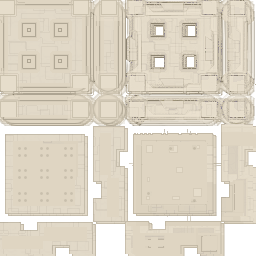
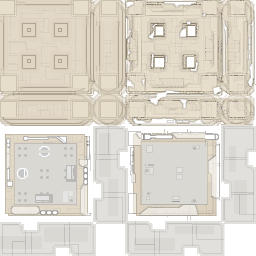
Updated some art and behaviours associated with roads and service hatches, plus minor tweaks to flora and fog of war.

diff --git a/src/stratos/game/civic/ServiceHatch.java b/src/stratos/game/civic/ServiceHatch.java
@@ -34,15 +34,6 @@ public class ServiceHatch extends Venue {
       IMG_DIR+"all_big_roads.png", 2, 2,
       2, 0, true
     ),
-    /*
-    ALL_MODELS[] = CutoutModel.fromImages(
-      ServiceHatch.class, IMG_DIR, 2, 0, true,
-      "access_hatch_2.png",
-      "causeway_x_axis.png",
-      "causeway_y_axis.png"
-    ),
-    //*/
-    //NM[] = ALL_MODELS[0][0],
     NM[][] = ALL_MODELS, HUB_MODEL = NM[0][0],
     MODELS_X_AXIS[] = { HUB_MODEL, NM[0][1], HUB_MODEL },
     MODELS_Y_AXIS[] = { HUB_MODEL, NM[1][1], HUB_MODEL };
@@ -55,12 +46,14 @@ public class ServiceHatch extends Venue {
       ServiceHatch.class, "media/GUI/Buttons/access_hatch_button.gif"
     );
   
+  
   final public static Blueprint BLUEPRINT = new Blueprint(
     ServiceHatch.class, "service_hatch",
     "Service Hatch", UIConstants.TYPE_ENGINEER,
     2, 0, IS_FIXTURE | IS_LINEAR,
-    Bastion.BLUEPRINT, Owner.TIER_FACILITY
+    Bastion.BLUEPRINT, Owner.TIER_PRIVATE
   );
+  
   
   
   public ServiceHatch(Base base) {
@@ -82,6 +75,43 @@ public class ServiceHatch extends Venue {
   
   public void saveState(Session s) throws Exception {
     super.saveState(s);
+  }
+  
+  
+  
+  /**  Situation and auto-placement:
+    */
+  final static int
+    EXCLUDE_RADIUS = Stage.ZONE_SIZE / 2,
+    MIN_ADJACENCY  = 2,
+    BASE_ADJACENCY = 4;
+  
+  public float ratePlacing(Target point, boolean exact) {
+    final Stage world = point.world();
+    
+    //  TODO:  Base this off demand for power & atmo distribution!
+    //  e.g, base.demands.demandAround(point, Economy.POWER), etc...
+    float need = 2;
+    //
+    //  We don't want hatches too close to other hatches, and they should be
+    //  'hugging' some nearby walls...
+    //  TODO:  Build that into the non-exact estimates too.
+    if (exact) {
+      final Object nearHatch = world.presences.nearestMatch(
+        ServiceHatch.class, point, EXCLUDE_RADIUS
+      );
+      if (nearHatch != null) return -1;
+      
+      int tilesAdj = 0;
+      for (Tile t : Spacing.perimeter(footprint(), world)) {
+        if (t == null || t.onTop() == null) continue;
+        if (t.onTop().base() == base) tilesAdj++;
+      }
+      return need * (tilesAdj - MIN_ADJACENCY) / BASE_ADJACENCY;
+    }
+    else {
+      return need;
+    }
   }
   
   
@@ -119,9 +149,9 @@ public class ServiceHatch extends Venue {
   public void updateAsScheduled(int numUpdates, boolean instant) {
     super.updateAsScheduled(numUpdates, instant);
     if (numUpdates % 10 != 0) return;
-    
+    //
+    //  Check to see if facing needs to be changed-
     final Object oldModel = buildSprite.baseSprite().model();
-    
     final Object model = faceModel(origin(), null);
     final Upgrade FC = Structure.FACING_CHANGE;
     boolean canChange = false;
@@ -138,13 +168,8 @@ public class ServiceHatch extends Venue {
       world.ephemera.addGhost(this, size, sprite(), 0.5f);
       attachModel((ModelAsset) model);
     }
-    /*
-    //  TODO:  Salvage and rebuild?  See how the shield-wall does it.
-    if (model != buildSprite.baseSprite().model()) {
-      attachModel((ModelAsset) model);
-    }
-    //*/
-    
+    //
+    //  And assign life-support and other tangible effects-
     if (model == HUB_MODEL) {
       structure.assignOutputs(
         Item.withAmount(ATMO , 2),

diff --git a/src/stratos/game/common/Tile.java b/src/stratos/game/common/Tile.java
@@ -11,6 +11,7 @@ import stratos.graphics.widgets.*;
 import stratos.user.*;
 import stratos.util.*;
 import stratos.game.wild.Habitat;
+import static stratos.game.maps.StageTerrain.*;
 
 
 
@@ -141,6 +142,11 @@ public final class Tile implements
   }
   
   
+  public boolean pathClear() {
+    return pathType() <= PATH_CLEAR;
+  }
+  
+  
   public int pathType() {
     if (onTop != null) return onTop.pathType();
     if (world.terrain().isRoad(this)) return PATH_ROAD;
@@ -237,9 +243,12 @@ public final class Tile implements
       I.complain("PREVIOUS OCCUPANT WAS NOT CLEARED: "+this.onTop);
     }
     
+    final boolean wasPaved = pathType() == PATH_ROAD;
     this.onTop = e;
-    if (! canPave()) {
-      PavingMap.setPaveLevel(this, StageTerrain.ROAD_NONE, false);
+    final boolean newPaved = pathType() == PATH_ROAD;
+    if (wasPaved != newPaved) {
+      final byte roadLevel = newPaved ? ROAD_LIGHT : ROAD_NONE;
+      PavingMap.setPaveLevel(this, roadLevel, false);
     }
     
     if (verbose) {

diff --git a/src/stratos/game/base/BaseAdvice.java b/src/stratos/game/base/BaseAdvice.java
@@ -25,12 +25,12 @@ import static stratos.game.actors.Backgrounds.*;
 
 
 public class BaseAdvice {
-
+  
   
   final public static int
-    LEVEL_TOTAL   =  2,
-    LEVEL_ADVISOR =  1,
-    LEVEL_NONE    =  0;
+    LEVEL_TOTAL   = 2,
+    LEVEL_ADVISOR = 1,
+    LEVEL_NONE    = 0;
   final static int
     WARNING_SLOW  = Stage.STANDARD_DAY_LENGTH,
     WARNING_FAST  = Stage.STANDARD_HOUR_LENGTH,
@@ -81,6 +81,7 @@ public class BaseAdvice {
     needsTechs ,
     needsAdmin ;
   private Batch <Traded> shortages = new Batch <Traded> ();
+  private Table <Traded, Batch <Blueprint>> demanding = new Table();
   
   private Table <Topic, Float> topicDates = new Table <Topic, Float> ();
   

diff --git a/src/stratos/game/maps/IntelMap.java b/src/stratos/game/maps/IntelMap.java
@@ -112,9 +112,10 @@ public class IntelMap {
       
       //  Fog values decay steadily over time, but those that have been
       //  thoroughly explored never decay below a minimum value.
-      float val = fogVals[c.x][c.y];
+      float val = fogVals[c.x][c.y], decay = 1f / FOG_DECAY_TIME;
       final boolean seen = val >= FOG_SEEN_MIN;
-      val -= 1f / FOG_DECAY_TIME;
+      if (world.claims.baseClaiming(c.x, c.y) == base) decay /= 2;
+      val -= decay;
       val = Nums.clamp(val, seen ? FOG_SEEN_MIN : MIN_FOG, MAX_FOG);
       fogVals[c.x][c.y] = val;
       

diff --git a/src/stratos/game/economic/Venue.java b/src/stratos/game/economic/Venue.java
@@ -283,6 +283,7 @@ public abstract class Venue extends Structural implements
   
   
   protected void updatePaving(boolean inWorld) {
+    super.updatePaving(inWorld);
     if (pathType() <= Tile.PATH_CLEAR) {
       byte road = inWorld ? StageTerrain.ROAD_LIGHT : StageTerrain.ROAD_NONE;
       for (Tile t : world.tilesIn(footprint(), false)) {
@@ -290,7 +291,6 @@ public abstract class Venue extends Structural implements
       }
     }
     else {
-      super.updatePaving(inWorld);
       base.transport.updateJunction(this, mainEntrance(), inWorld);
     }
   }

diff --git a/src/stratos/game/wild/Flora.java b/src/stratos/game/wild/Flora.java
@@ -166,9 +166,8 @@ public class Flora extends Element implements TileConstants {
   
   
   public static boolean canGrowAt(Tile t) {
-    //  TODO:  TRY TO STANDARDISE THIS WITH VENUES.
-    if (t.blocked() || t.isEntrance()) return false;
-    if (t.reserved() || t.inside().size() > 0) return false;
+    if (t.reserved() || t.pathType() != Tile.PATH_CLEAR) return false;
+    if (t.isEntrance() || t.inside().size() > 0) return false;
     if (growChance(t) == -1) return false;
     return Placement.perimeterFits(t, Owner.TIER_TERRAIN);
   }

diff --git a/src/stratos/game/maps/ClaimsGrid.java b/src/stratos/game/maps/ClaimsGrid.java
@@ -75,9 +75,14 @@ public class ClaimsGrid {
     */
   //  TODO:  Is there any way to make this more precise?  Based off the danger-
   //  map, say?
-  public Base baseClaiming(Tile t) {
-    final StageRegion s = world.sections.sectionAt(t.x, t.y);
+  public Base baseClaiming(int tX, int tY) {
+    final StageRegion s = world.sections.sectionAt(tX, tY);
     return baseClaims[s.x][s.y];
+  }
+  
+  
+  public Base baseClaiming(Tile t) {
+    return baseClaiming(t.x, t.y);
   }
   
   

diff --git a/src/stratos/game/maps/PavingMap.java b/src/stratos/game/maps/PavingMap.java
@@ -91,7 +91,7 @@ public class PavingMap {
   
   public static void setPaveLevel(Tile t, byte level, boolean clear) {
     if (level > ROAD_NONE && ! t.canPave()) return;
-    if (clear && level > ROAD_NONE && t.onTop() != null) {
+    if (clear && level > ROAD_NONE && t.onTop() != null && ! t.pathClear()) {
       t.onTop().setAsDestroyed();
     }
     t.world.terrain().setRoadType(t, level);
